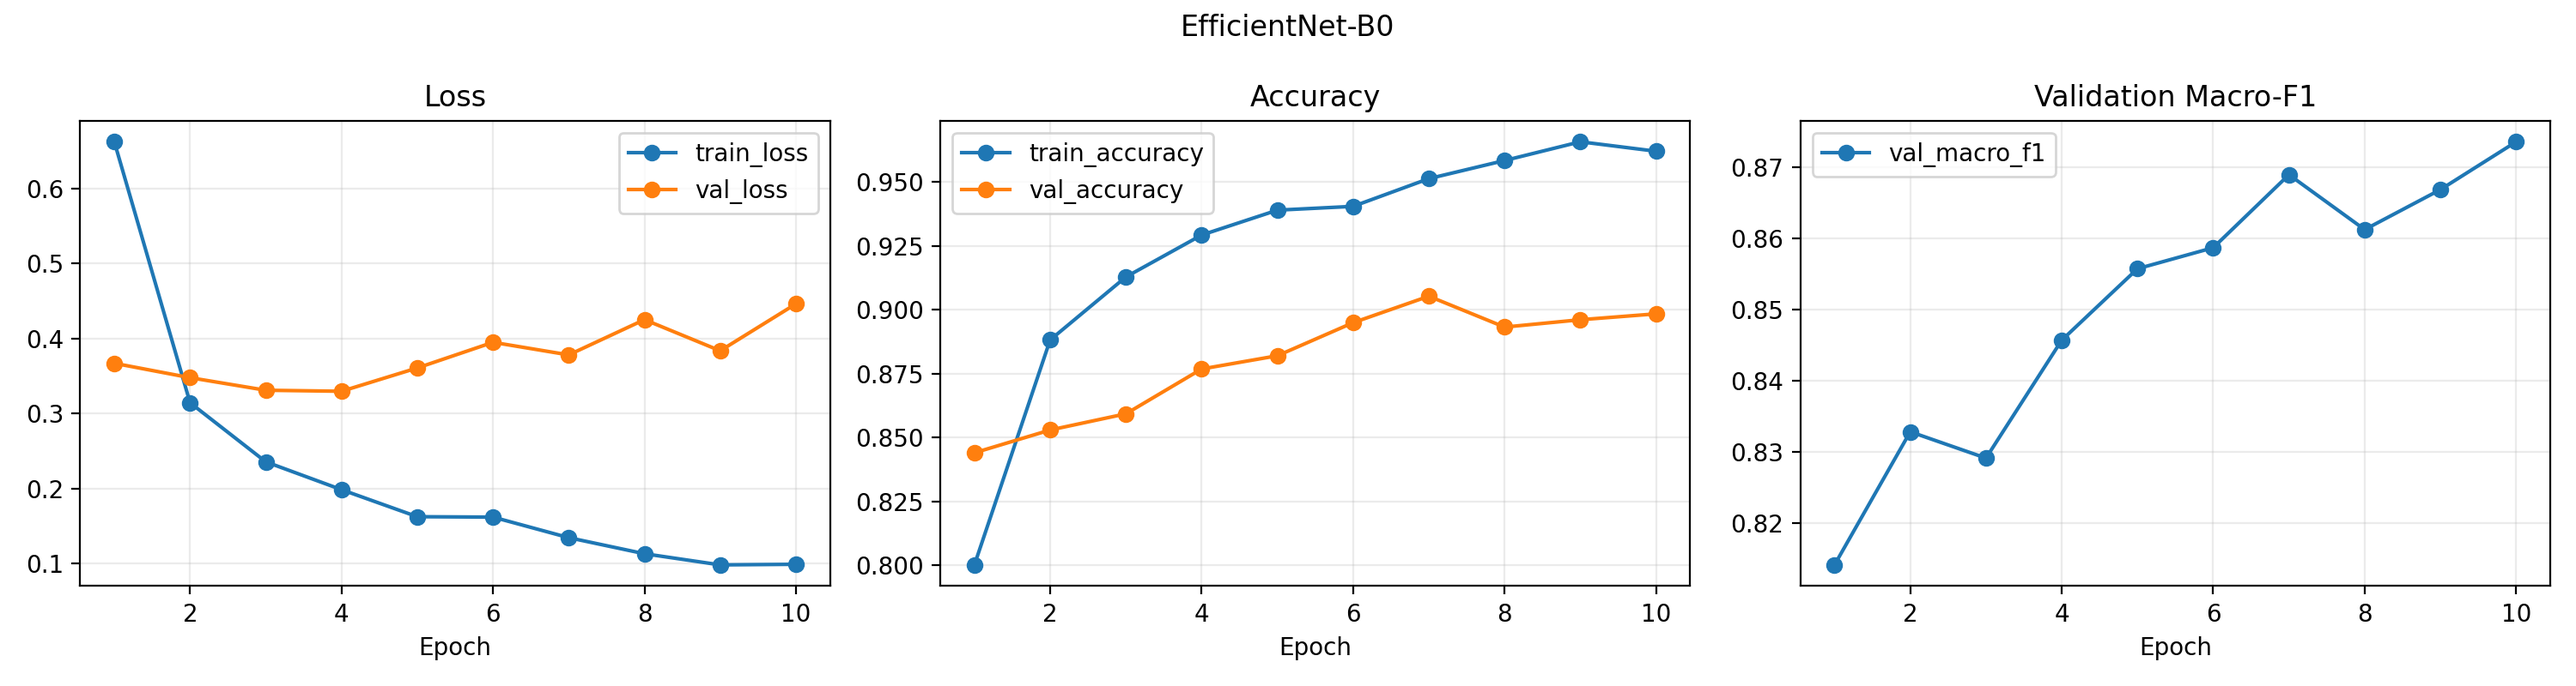
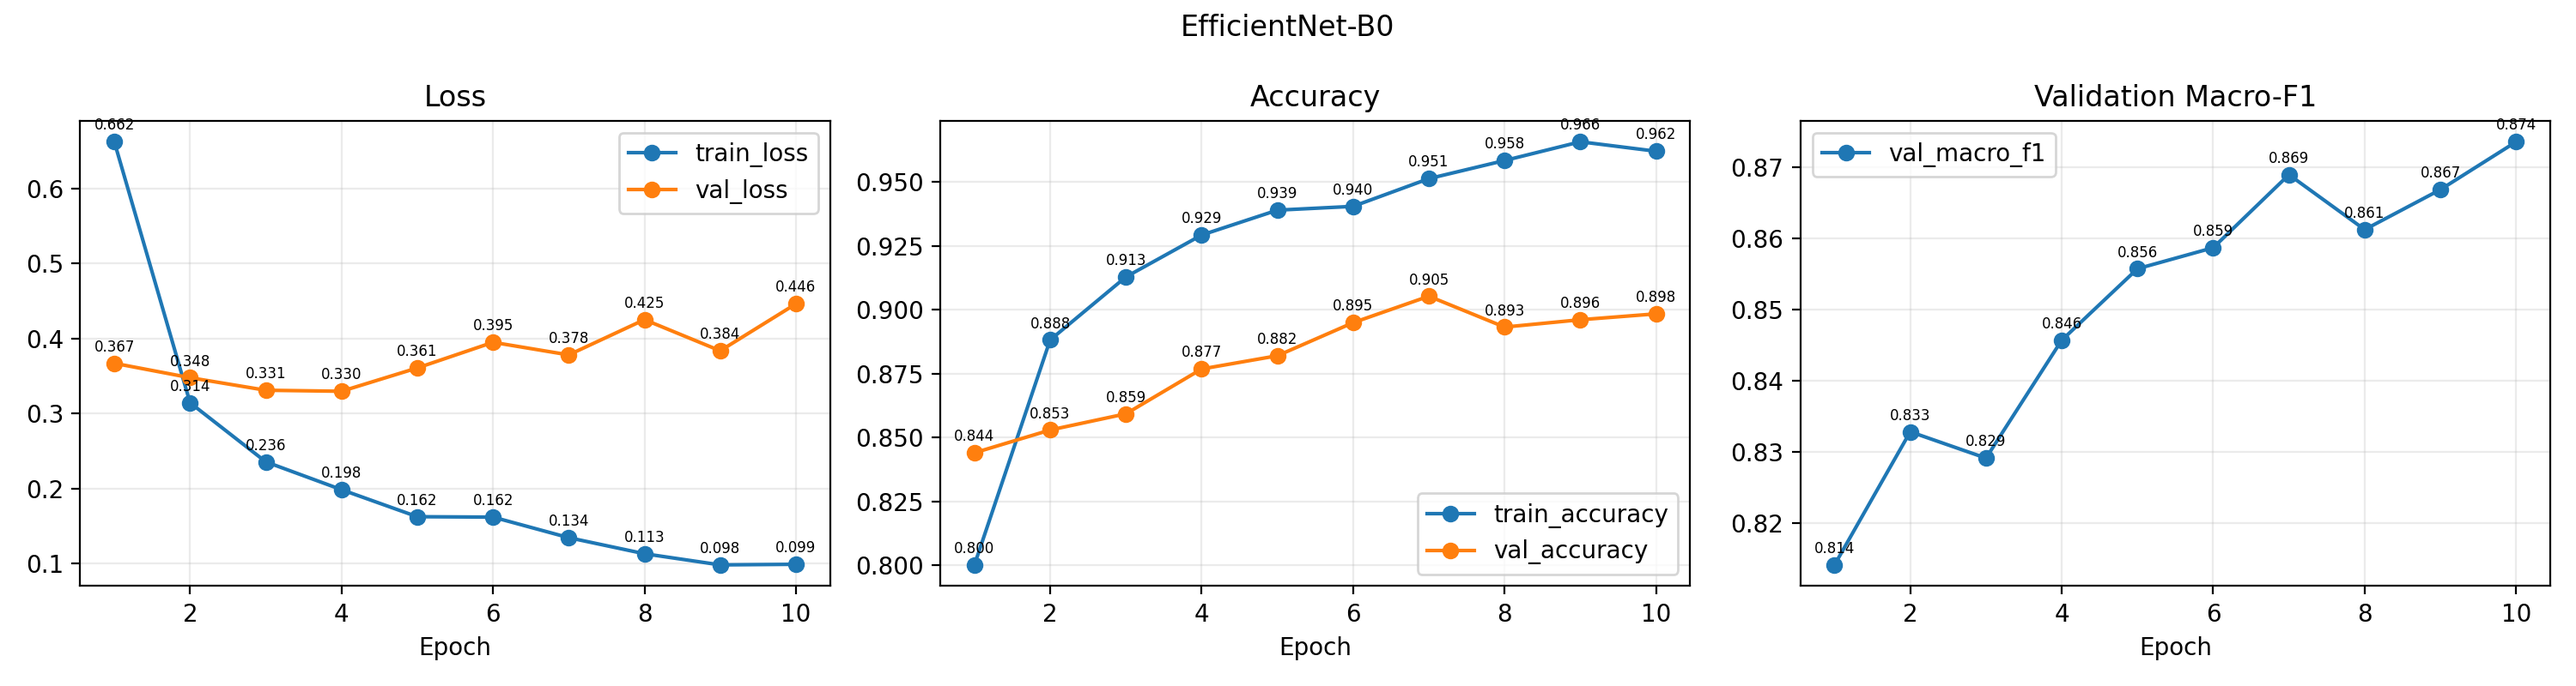
Improve Streamlit evaluation charts

diff --git a/app.py b/app.py
@@ -13,6 +13,7 @@ import streamlit as st
 import torch
 import timm
 from PIL import Image
+from sklearn.metrics import confusion_matrix
 
 from dataset import CLASS_NAMES, eval_transform
 from model_reports import MODELS, REPORT_DIR, comparison_table
@@ -115,18 +116,25 @@ def show_charts(model_name):
         loss_col, accuracy_col, f1_col = st.columns(3)
         with loss_col:
             st.caption("Loss")
-            st.line_chart(chart_data[["train_loss", "val_loss"]].rename(columns={"train_loss": "Train", "val_loss": "Validation"}), width="stretch")
+            loss_view = chart_data[["train_loss", "val_loss"]].rename(columns={"train_loss": "Train", "val_loss": "Validation"})
+            st.line_chart(loss_view, width="stretch")
+            st.dataframe(loss_view.reset_index().round(4), width="stretch", hide_index=True)
         with accuracy_col:
             st.caption("Accuracy")
-            st.line_chart(chart_data[["train_accuracy", "val_accuracy"]].rename(columns={"train_accuracy": "Train", "val_accuracy": "Validation"}), width="stretch")
+            accuracy_view = chart_data[["train_accuracy", "val_accuracy"]].rename(columns={"train_accuracy": "Train", "val_accuracy": "Validation"})
+            st.line_chart(accuracy_view, width="stretch")
+            st.dataframe(accuracy_view.reset_index().round(4), width="stretch", hide_index=True)
         with f1_col:
             st.caption("Validation Macro-F1")
-            st.line_chart(chart_data[["val_macro_f1"]].rename(columns={"val_macro_f1": "Macro-F1"}), width="stretch")
+            f1_view = chart_data[["val_macro_f1"]].rename(columns={"val_macro_f1": "Macro-F1"})
+            st.line_chart(f1_view, width="stretch")
+            st.dataframe(f1_view.reset_index().round(4), width="stretch", hide_index=True)
 
         f1_cols = [c for c in history.columns if c.endswith("_f1")]
         if f1_cols:
             st.caption("F1 รายคลาสต่อ epoch")
             st.line_chart(chart_data[f1_cols], width="stretch")
+            st.dataframe(chart_data[f1_cols].reset_index().round(4), width="stretch", hide_index=True)
     else:
         st.warning("ไม่พบไฟล์ history.csv")
 
@@ -138,24 +146,56 @@ def show_charts(model_name):
         c1, c2 = st.columns(2)
         with c1:
             st.caption("Best validation Macro-F1")
-            st.bar_chart(view.set_index("experiment")[["best_val_macro_f1"]], width="stretch")
+            ablation_f1 = view.melt(id_vars="experiment", value_vars=["best_val_macro_f1"], var_name="Metric", value_name="Value")
+            chart = alt.Chart(ablation_f1).mark_bar().encode(
+                x=alt.X("experiment:N", title="Experiment", axis=alt.Axis(labelAngle=-25)),
+                y=alt.Y("Value:Q", title="Score", scale=alt.Scale(domain=[0, 1])),
+                color=alt.Color("Metric:N", legend=None),
+                tooltip=["experiment:N", alt.Tooltip("Value:Q", format=".4f")],
+            )
+            labels = alt.Chart(ablation_f1).mark_text(dy=-8).encode(x="experiment:N", y="Value:Q", text=alt.Text("Value:Q", format=".4f"))
+            st.altair_chart(chart + labels, width="stretch")
         with c2:
             st.caption("Best validation Accuracy (%)")
-            st.bar_chart(view.set_index("experiment")[["best_val_accuracy_pct"]], width="stretch")
+            ablation_acc = view.melt(id_vars="experiment", value_vars=["best_val_accuracy_pct"], var_name="Metric", value_name="Value")
+            chart = alt.Chart(ablation_acc).mark_bar().encode(
+                x=alt.X("experiment:N", title="Experiment", axis=alt.Axis(labelAngle=-25)),
+                y=alt.Y("Value:Q", title="Accuracy (%)", scale=alt.Scale(domain=[0, 100])),
+                color=alt.Color("Metric:N", legend=None),
+                tooltip=["experiment:N", alt.Tooltip("Value:Q", format=".2f")],
+            )
+            labels = alt.Chart(ablation_acc).mark_text(dy=-8).encode(x="experiment:N", y="Value:Q", text=alt.Text("Value:Q", format=".2f"))
+            st.altair_chart(chart + labels, width="stretch")
         st.dataframe(view[["experiment", "best_val_macro_f1", "best_val_accuracy_pct", "best_epoch"]], width="stretch", hide_index=True)
 
 
 def show_matrices(model_name):
-    CM = MODELS[model_name]["evaluation"] / "confusion_matrix.png"
-    CM_NORMALIZED = MODELS[model_name]["evaluation"] / "confusion_matrix_normalized.png"
-    st.subheader("Confusion Matrix")
-    c1, c2 = st.columns(2)
-    with c1:
-        if CM.exists():
-            st.image(str(CM), caption="Confusion Matrix - Test Set", width="stretch")
-    with c2:
-        if CM_NORMALIZED.exists():
-            st.image(str(CM_NORMALIZED), caption="Normalized Confusion Matrix", width="stretch")
+    predictions_path = MODELS[model_name]["evaluation"] / "test_predictions.csv"
+    st.subheader("Normalized Confusion Matrix")
+    st.caption("อ่านเป็นเปอร์เซ็นต์ตามคลาสจริงในแต่ละแถว · ตัวเลขในวงเล็บคือจำนวนภาพ")
+    if not predictions_path.exists():
+        st.warning("ไม่พบไฟล์ test_predictions.csv")
+        return
+    predictions = pd.read_csv(predictions_path)
+    labels = list(CLASS_NAMES)
+    counts = confusion_matrix(predictions.true_idx, predictions.pred_idx, labels=range(len(labels)))
+    row_totals = counts.sum(axis=1, keepdims=True)
+    normalized = counts / row_totals.clip(min=1)
+    matrix = pd.DataFrame(normalized, index=labels, columns=labels).reset_index(names="จริง")
+    long = matrix.melt(id_vars="จริง", var_name="ทำนาย", value_name="สัดส่วน")
+    count_long = pd.DataFrame(counts, index=labels, columns=labels).reset_index(names="จริง").melt(id_vars="จริง", var_name="ทำนาย", value_name="จำนวน")
+    long["จำนวน"] = count_long["จำนวน"]
+    long["ข้อความ"] = long.apply(lambda r: f"{r['สัดส่วน']:.1%}\n(n={int(r['จำนวน'])})", axis=1)
+    heatmap = alt.Chart(long).mark_rect().encode(
+        x=alt.X("ทำนาย:N", title="Predicted class", sort=labels),
+        y=alt.Y("จริง:N", title="True class", sort=labels),
+        color=alt.Color("สัดส่วน:Q", title="สัดส่วน", scale=alt.Scale(domain=[0, 1], scheme="viridis")),
+        tooltip=["จริง:N", "ทำนาย:N", alt.Tooltip("สัดส่วน:Q", format=".2%"), "จำนวน:Q"],
+    ).properties(height=420)
+    text = alt.Chart(long).mark_text(fontSize=13, color="white", lineBreak="\n").encode(
+        x=alt.X("ทำนาย:N", sort=labels), y=alt.Y("จริง:N", sort=labels), text="ข้อความ:N"
+    )
+    st.altair_chart(heatmap + text, width="stretch")
 
 
 def show_prediction(name, result):
@@ -189,7 +229,11 @@ def show_probability_comparison(results):
         color=alt.Color("โมเดล:N", scale=alt.Scale(domain=list(MODELS), range=["#60a5fa", "#34d399", "#f59e0b"]), legend=alt.Legend(orient="top", title=None)),
         tooltip=["โมเดล:N", "คลาส:N", alt.Tooltip("ความมั่นใจ:Q", format=".2%")],
     ).properties(height=220)
-    st.altair_chart(chart, width="stretch")
+    labels = alt.Chart(pd.DataFrame(rows)).mark_text(dx=5, align="left", color="white").encode(
+        y=alt.Y("คลาส:N", sort=[THAI_NAMES[x].split(" (")[0] for x in CLASS_NAMES]),
+        x="ความมั่นใจ:Q", yOffset="โมเดล:N", text=alt.Text("ความมั่นใจ:Q", format=".1%"),
+    )
+    st.altair_chart(chart + labels, width="stretch")
 
 
 st.title("🌿 Cassava Leaf Disease Classification")
@@ -241,7 +285,18 @@ with tab_compare:
     try:
         table = comparison_table()
         st.dataframe(table, width="stretch", hide_index=True)
-        st.bar_chart(table.set_index("Model")[["Accuracy", "Macro Precision", "Macro Recall", "Macro-F1"]])
+        comparison = table.melt(id_vars="Model", value_vars=["Accuracy", "Macro Precision", "Macro Recall", "Macro-F1"], var_name="Metric", value_name="Score")
+        bars = alt.Chart(comparison).mark_bar().encode(
+            x=alt.X("Model:N", title="Model"),
+            xOffset=alt.XOffset("Metric:N"),
+            y=alt.Y("Score:Q", title="Score (0–1)", scale=alt.Scale(domain=[0, 1])),
+            color=alt.Color("Metric:N", title="Metric"),
+            tooltip=["Model:N", "Metric:N", alt.Tooltip("Score:Q", format=".4f")],
+        )
+        labels = alt.Chart(comparison).mark_text(dy=-8, fontSize=11).encode(
+            x="Model:N", xOffset=alt.XOffset("Metric:N"), y="Score:Q", text=alt.Text("Score:Q", format=".4f"), color=alt.value("white")
+        )
+        st.altair_chart((bars + labels).properties(height=420), width="stretch")
         st.caption("คะแนนอยู่ในช่วง 0–1; Macro ให้แต่ละคลาสมีน้ำหนักเท่ากัน")
         st.info("เลือก checkpoint จาก Validation Macro-F1; คะแนน Test ใช้รายงานผล ไม่ใช้เลือก epoch")
         st.download_button("ดาวน์โหลดตารางเปรียบเทียบ (CSV)", table.to_csv(index=False).encode("utf-8-sig"), "model_comparison.csv", "text/csv")
@@ -251,6 +306,17 @@ with tab_compare:
         st.subheader("F1 รายคลาส")
         per_class = pd.DataFrame({name: pd.read_csv(config["evaluation"] / "test_metrics.csv").set_index("class")["f1"] for name, config in MODELS.items()})
         st.dataframe(per_class, width="stretch")
-        st.bar_chart(per_class)
+        per_class_long = per_class.reset_index().melt(id_vars="class", var_name="Model", value_name="F1")
+        per_class_long["class_label"] = per_class_long["class"].map(lambda x: THAI_NAMES.get(x, x).split(" (")[0])
+        bars = alt.Chart(per_class_long).mark_bar().encode(
+            x=alt.X("class_label:N", title="Class"), xOffset=alt.XOffset("Model:N"),
+            y=alt.Y("F1:Q", title="F1 score", scale=alt.Scale(domain=[0, 1])),
+            color=alt.Color("Model:N", title="Model"),
+            tooltip=["class:N", "Model:N", alt.Tooltip("F1:Q", format=".4f")],
+        )
+        labels = alt.Chart(per_class_long).mark_text(dy=-8, fontSize=10).encode(
+            x="class_label:N", xOffset=alt.XOffset("Model:N"), y="F1:Q", text=alt.Text("F1:Q", format=".4f"), color=alt.value("white")
+        )
+        st.altair_chart((bars + labels).properties(height=420), width="stretch")
     except (ValueError, FileNotFoundError) as exc:
         st.error(str(exc))

diff --git a/model_reports.py b/model_reports.py
@@ -61,6 +61,8 @@ def export_reports():
         for ax, columns, title in zip(axes, [("train_loss", "val_loss"), ("train_accuracy", "val_accuracy"), ("val_macro_f1",)], ["Loss", "Accuracy", "Validation Macro-F1"]):
             for column in columns:
                 ax.plot(history.epoch, history[column], marker="o", label=column)
+                for epoch, value in zip(history.epoch, history[column]):
+                    ax.annotate(f"{value:.3f}", (epoch, value), textcoords="offset points", xytext=(0, 5), ha="center", fontsize=6)
             ax.set(title=title, xlabel="Epoch")
             ax.grid(alpha=0.25)
             ax.legend()
@@ -69,9 +71,13 @@ def export_reports():
         fig.savefig(REPORT_DIR / f"learning_curve_{config['architecture']}.png", dpi=200)
         plt.close(fig)
     fig, ax = plt.subplots(figsize=(9, 5))
-    table.set_index("Model")[["Accuracy", "Macro Precision", "Macro Recall", "Macro-F1"]].plot.bar(ax=ax, rot=0)
-    ax.set(ylabel="Score", ylim=(0, 1), title="Model comparison - same held-out test set")
-    ax.legend(loc="lower right")
+    metrics = ["Accuracy", "Macro Precision", "Macro Recall", "Macro-F1"]
+    plotted = table.set_index("Model")[metrics].plot.bar(ax=ax, rot=0, stacked=False)
+    ax.set(ylabel="Score (0–1)", ylim=(0, 1), title="Model comparison - same held-out test set")
+    ax.grid(axis="y", alpha=0.25)
+    for container in plotted.containers:
+        ax.bar_label(container, fmt="%.4f", padding=3, fontsize=8)
+    ax.legend(title="Metric", loc="lower right")
     fig.tight_layout()
     fig.savefig(REPORT_DIR / "model_comparison.png", dpi=200)
     plt.close(fig)
